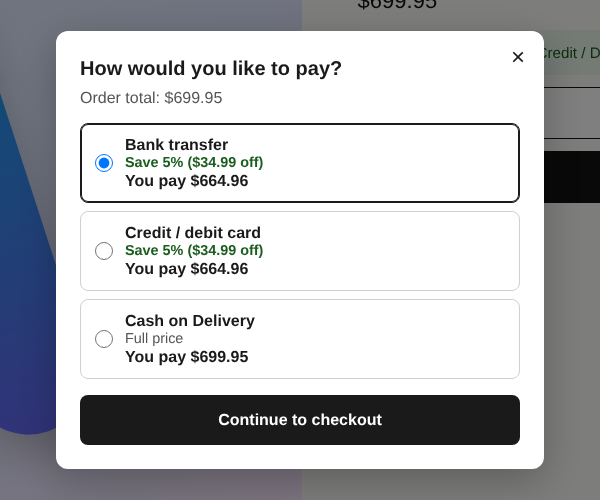
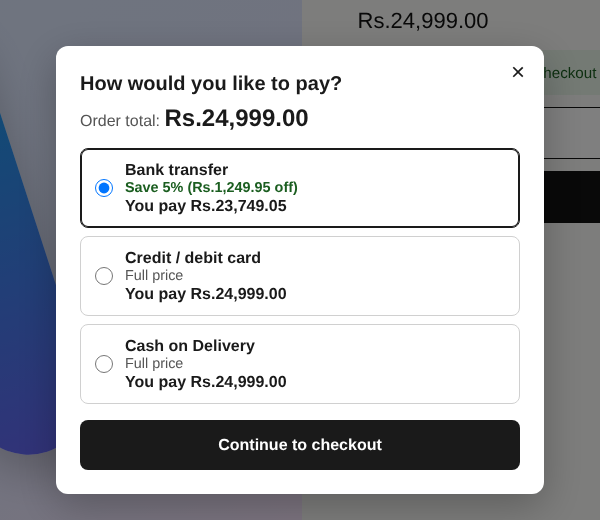
Pop-up: order total large and bold; guide pictures in Rs
The pop-up's order total amount is now bigger and bold. The guide and Home
pictures (pop-up, banner, Thank-you amount) show rupees, as on a PKR store;
the pop-up itself always uses the store's own money format.

Claude-Session: https://claude.ai/code/session_01T5N9wRvo6CZFC7JEBmskR2

diff --git a/extensions/payment-discount-banner/assets/payment-choice.js b/extensions/payment-discount-banner/assets/payment-choice.js
@@ -168,7 +168,16 @@
     if (known && text.total) {
       total = document.createElement('p');
       total.className = 'pc-total';
-      total.textContent = text.total.replace('[amount]', formatMoney(totalCents));
+      // The amount itself stands out: "Order total: Rs.24,999.00".
+      var parts = text.total.split('[amount]');
+      total.appendChild(document.createTextNode(parts[0]));
+      if (parts.length > 1) {
+        var amountElement = document.createElement('strong');
+        amountElement.className = 'pc-total__amount';
+        amountElement.textContent = formatMoney(totalCents);
+        total.appendChild(amountElement);
+        total.appendChild(document.createTextNode(parts.slice(1).join('[amount]')));
+      }
     }
 
     var form = document.createElement('form');

diff --git a/app/routes/app._index.tsx b/app/routes/app._index.tsx
@@ -497,7 +497,7 @@ function PopUpRow({ on, href }: { on: boolean | undefined; href: string }) {
         </div>
         <Thumbnail
           src="/guide/popup.png"
-          alt="The pop-up: bank transfer and card save 5%, cash on delivery is full price"
+          alt="The pop-up: bank transfer saves 5%, card and cash on delivery are full price"
         />
       </div>
     </s-box>

diff --git a/app/routes/app.guide.tsx b/app/routes/app.guide.tsx
@@ -116,7 +116,7 @@ export default function Guide() {
         </>
       ),
       image: "popup",
-      alt: "The pop-up on a product page: bank transfer and card save 5%, cash on delivery is full price",
+      alt: "The pop-up on a product page: bank transfer saves 5%, card and cash on delivery are full price",
     },
     {
       title: "Show the saving on product and cart pages",

diff --git a/extensions/payment-discount-banner/assets/payment-choice.css b/extensions/payment-discount-banner/assets/payment-choice.css
@@ -50,6 +50,14 @@
   color: #555;
 }
 
+.pc-total__amount {
+  display: inline-block;
+  font-size: 1.5em;
+  font-weight: 700;
+  color: #1a1a1a;
+  vertical-align: baseline;
+}
+
 .pc-options {
   display: grid;
   gap: 8px;
